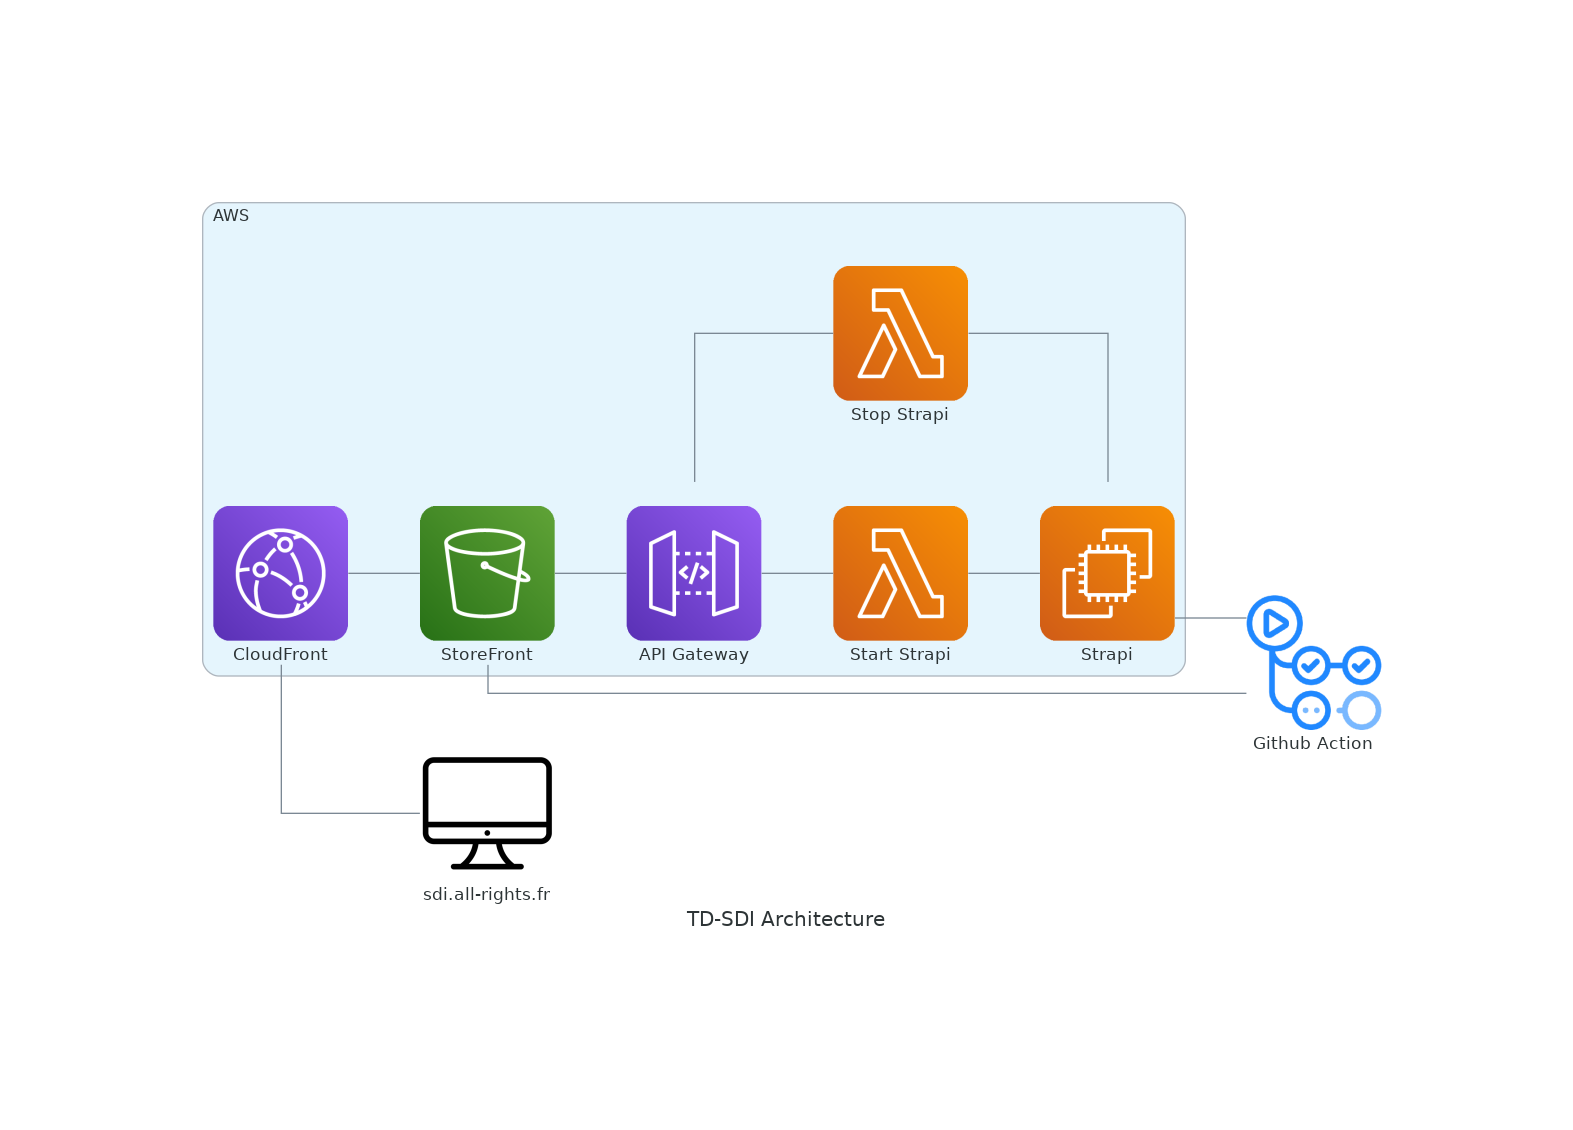
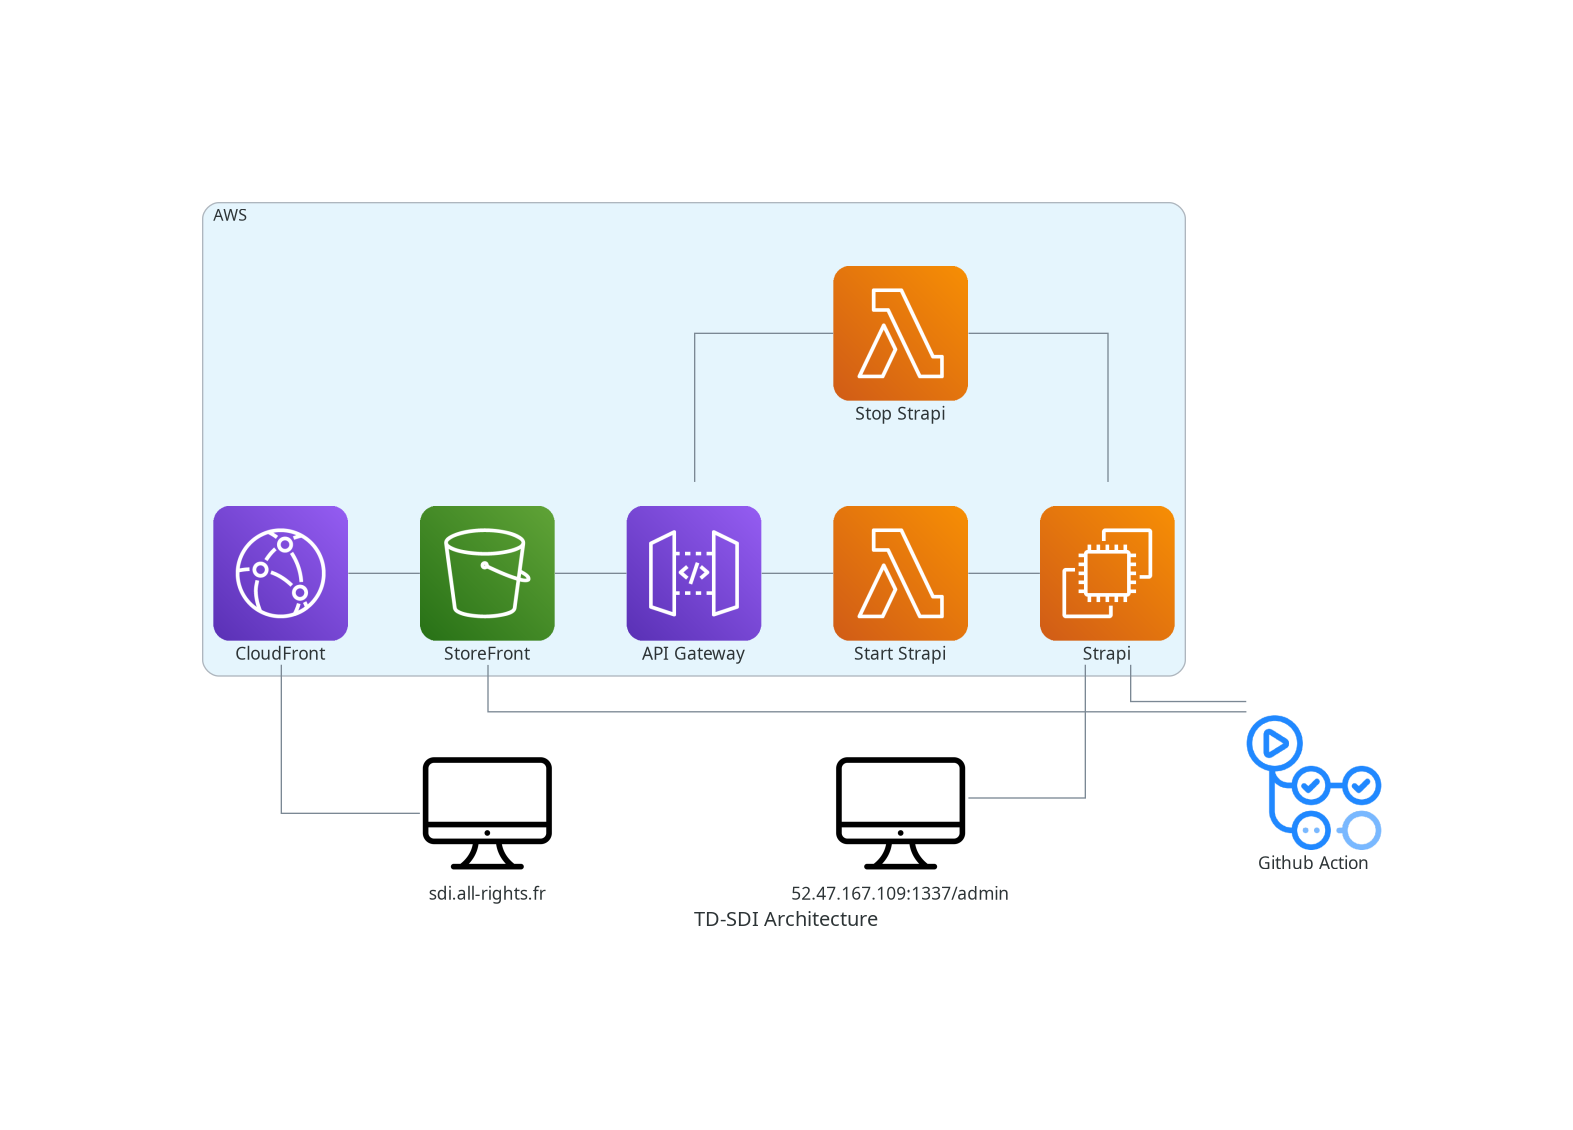
removed on/off switch

diff --git a/sdi-app/components/Home.vue b/sdi-app/components/Home.vue
@@ -1,35 +1,10 @@
 <template>
   <div class="main">
     <h1>SDI 431</h1>
-    <h2>The place you go to fill you fish tanks, socks drawers and tractor garages</h2>
+    <h2>Le site parfait pour tout les fermiers aquariophile frileux du pieds gauche</h2>
   </div>
   <ProductList/>
-  <div>
-      <button @click="startStrapi">Start Strapi</button>
-      <button @click="stopStrapi">Stop Strapi</button>
-      <a href="http://52.47.167.109:1337/admin">Strapi Admin</a>
-  </div>
 </template>
-
-<script setup lang="ts">
-  function startStrapi() {
-  useFetch("https://3fk05namec.execute-api.eu-west-3.amazonaws.com").then(response => {
-    console.log("start", response)
-    window.open("http://52.47.167.109:1337/admin", '_self')
-    console.log("opened")
-  }).catch(response => {
-    console.log("stop", response)
-  });
-}
-
-  function stopStrapi() {
-    useFetch("https://3fk05namec.execute-api.eu-west-3.amazonaws.com/stop").then(response => {
-      console.log("stop", response)
-    }).catch(response => {
-      console.log("stop", response)
-    });
-  }
-</script>
 
 <style scoped>
 h1{

diff --git a/diagram/diagram.py b/diagram/diagram.py
@@ -27,9 +27,9 @@ with Diagram("TD-SDI Architecture"):
         cloudFront - storeFront
 
     githubAction = Custom("Github Action", "./github-action.png")
-    # adminFront = Custom("admin.sdi.all-rights.fr", "./computer.png")
+    strapiFront = Custom("52.47.167.109:1337/admin", "./computer.png")
     storePortal = Custom("sdi.all-rights.fr", "./computer.png")
 
     strapi - githubAction - storeFront
-    # apiGateway - adminFront - strapi
-    cloudFront - storePortal    
+    strapiFront - strapi
+    cloudFront - storePortal
